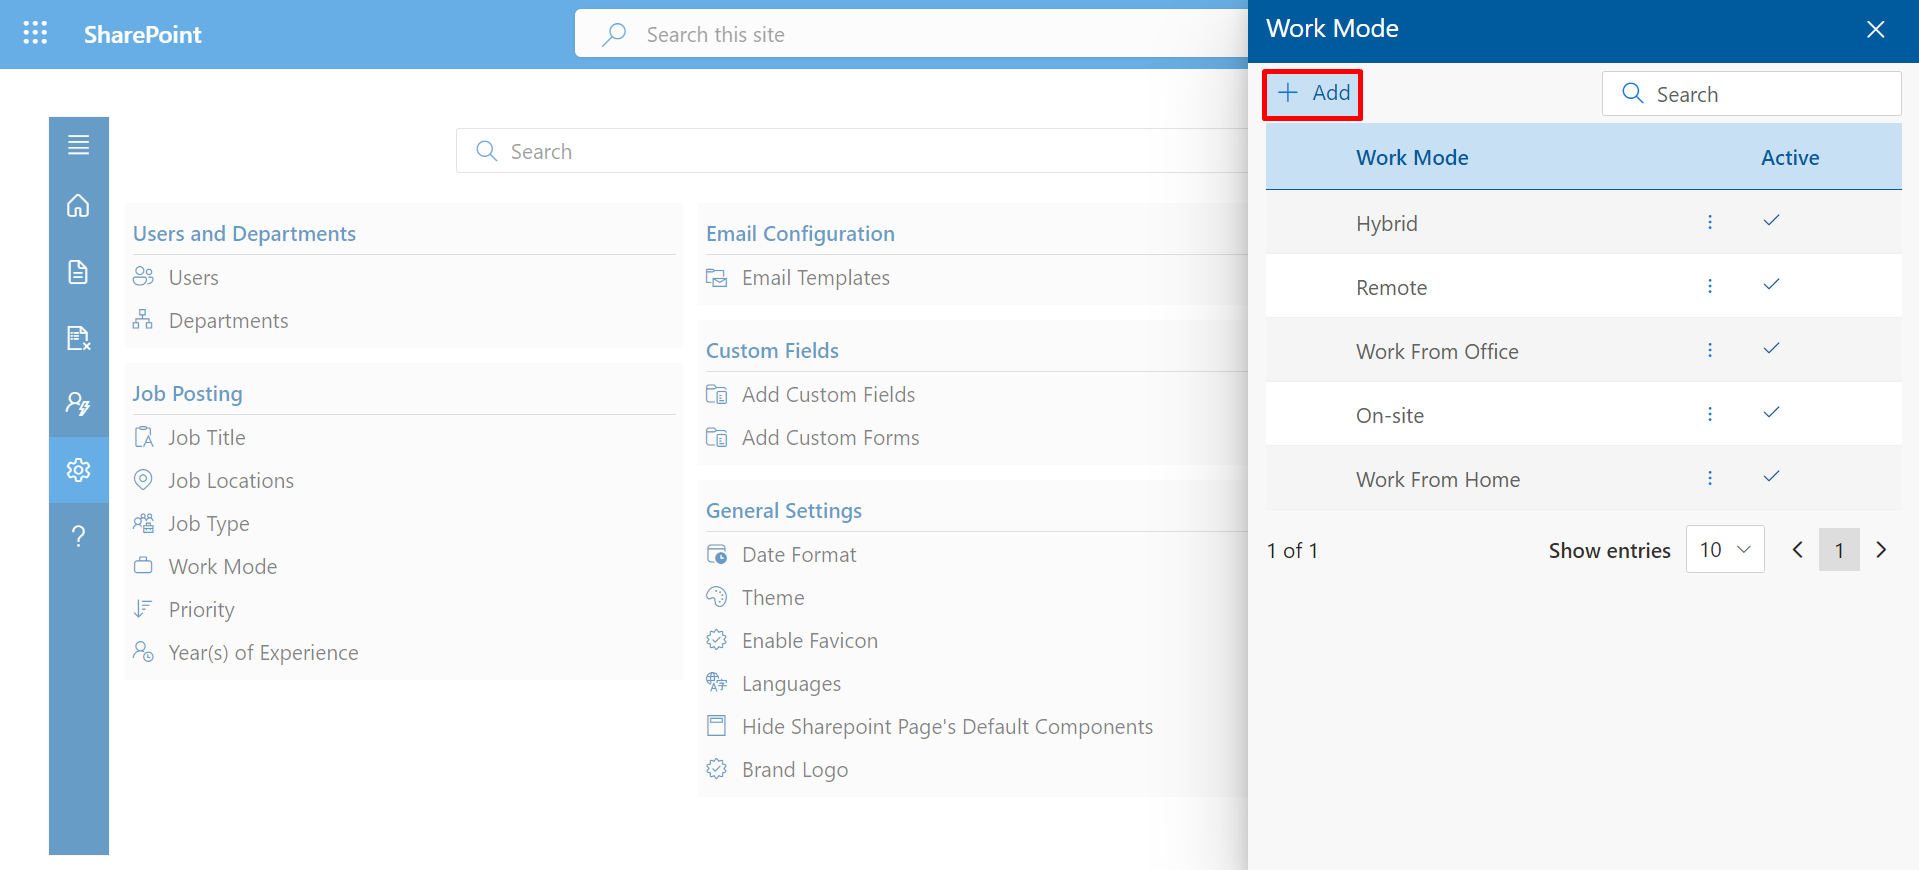
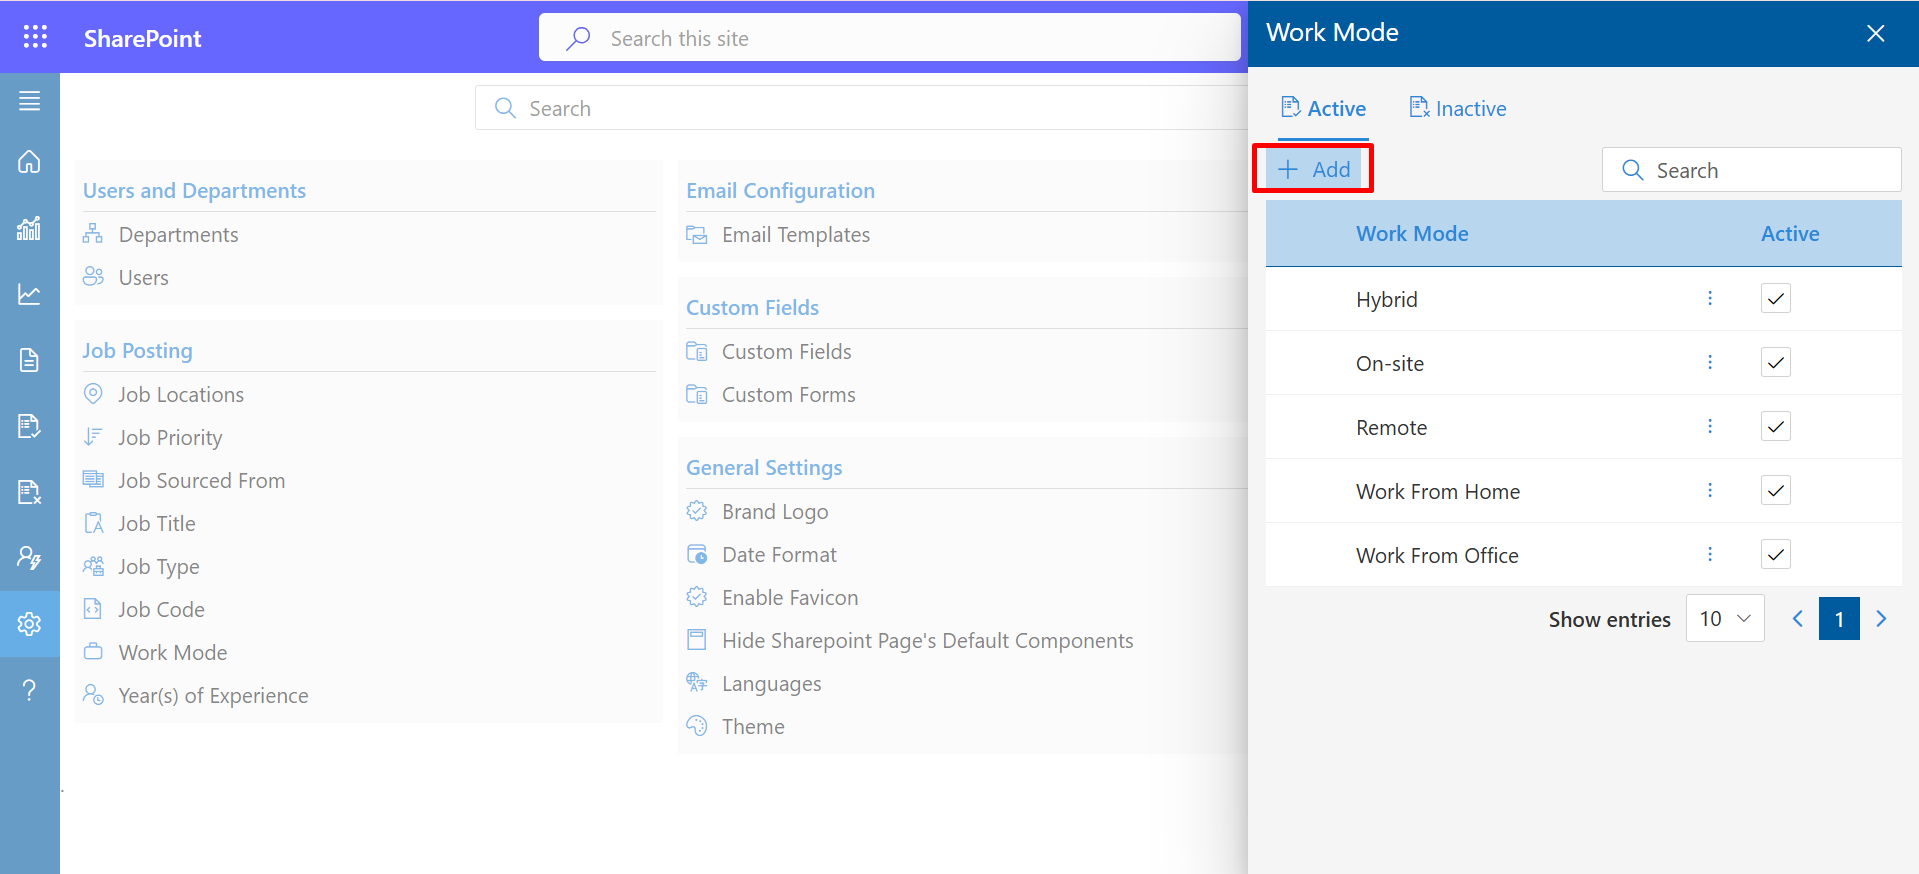
RM365_Docs

diff --git a/RM365/modern/admin/settings/portal-configration/index.html b/RM365/modern/admin/settings/portal-configration/index.html
@@ -29,16 +29,16 @@
     <script src=https://hr365docs.github.io/docs/plugins/jquery/jquery-ui.js></script>
     <script src=https://hr365docs.github.io/docs/plugins/bootstrap/bootstrap.min.js></script>
     <script src=https://hr365docs.github.io/docs/plugins/match-height/jquery.matchHeight-min.js></script>
-               <!-- Google Tag Manager -->
-               <script>(function (w, d, s, l, i) {
-                w[l] = w[l] || []; w[l].push({
-                    'gtm.start':
-                        new Date().getTime(), event: 'gtm.js'
-                }); var f = d.getElementsByTagName(s)[0],
-                    j = d.createElement(s), dl = l != 'dataLayer' ? '&l=' + l : ''; j.async = true; j.src =
-                        'https://www.googletagmanager.com/gtm.js?id=' + i + dl; f.parentNode.insertBefore(j, f);
-            })(window, document, 'script', 'dataLayer', 'GTM-TX9SKDMB');</script>
-        <!-- End Google Tag Manager -->
+    <!-- Google Tag Manager -->
+    <script>(function (w, d, s, l, i) {
+            w[l] = w[l] || []; w[l].push({
+                'gtm.start':
+                    new Date().getTime(), event: 'gtm.js'
+            }); var f = d.getElementsByTagName(s)[0],
+                j = d.createElement(s), dl = l != 'dataLayer' ? '&l=' + l : ''; j.async = true; j.src =
+                    'https://www.googletagmanager.com/gtm.js?id=' + i + dl; f.parentNode.insertBefore(j, f);
+        })(window, document, 'script', 'dataLayer', 'GTM-TX9SKDMB');</script>
+    <!-- End Google Tag Manager -->
     <meta property="og:image" content="https://hr365docs.github.io/docs/images/logo.png">
     <meta name=twitter:image content="https://hr365docs.github.io/docs/images/logo.png">
     <meta name=twitter:card content="summary_large_image">
@@ -57,13 +57,13 @@
 </head>
 
 <body>
-                    <!-- Google Tag Manager (noscript) -->
-                    <noscript>
-                        <iframe src="https://www.googletagmanager.com/ns.html?id=GTM-TX9SKDMB" height="0" width="0"
-                            style="display:none;visibility:hidden">
-                        </iframe>
-                    </noscript>
-                    <!-- End Google Tag Manager (noscript) -->
+    <!-- Google Tag Manager (noscript) -->
+    <noscript>
+        <iframe src="https://www.googletagmanager.com/ns.html?id=GTM-TX9SKDMB" height="0" width="0"
+            style="display:none;visibility:hidden">
+        </iframe>
+    </noscript>
+    <!-- End Google Tag Manager (noscript) -->
     <header class="shadow-bottom sticky-top bg-white">
         <nav class="navbar navbar-expand-lg navbar-light">
             <div class="container px-2 px-md-0">
@@ -111,12 +111,73 @@ active">
                                     <i class="fas fa-link" style="font-size:12px; color:lightgray;"></i></a>
                             </h2>
                             <br>
-                            <p>Job Portal Configuration enables RM365 customers to add a privacy policy link and customize the job portal's buttons, banner, text color, and logo. </p><br>
+                            <p>Job Portal Configuration enables RM365 customers to add a privacy policy link and
+                                customize the job portal's buttons, banner, text color, and logo. </p><br>
 
                             <div><img src="1.png" onclick="openModal('1.png')" alt="RM365" width="100%" height="auto">
                             </div>
                             <br>
-                           
+
+
+
+
+                        </div>
+                        <div class="bg-light p-4 remove-padding">
+                            <h2 id="_dashboards"><a class="header-icon-link highlight" href=#>Internal Job Portal
+                                    Configuration
+                                    <i class="fas fa-link" style="font-size:12px; color:lightgray;"></i></a>
+                            </h2>
+                            <br>
+                            <p>Configure and manage an internal job portal to streamline job postings, approvals, and
+                                employee applications. This includes setting up job templates, defining access
+                                permissions, enabling approval workflows, and tracking job applications for internal
+                                hiring processes.</p><br>
+
+                            <div><img src="internalJob.png" onclick="openModal('internalJob.png')" alt="RM365"
+                                    width="100%" height="auto">
+                            </div>
+                            <br>
+                            <p>The Internal Job Portal Configuration allows administrators to customize and personalize
+                                the job portal by setting the title, footer, description, portal logo, banner image,
+                                color themes, and links to ensure alignment with the company’s branding and
+                                requirements. It also enables features such as managing referral options, resume size
+                                limits, and hiding default components, providing a tailored and user-friendly experience
+                                for employees.</p><br>
+
+                            <div><img src="2.png" onclick="openModal('2.png')" alt="RM365" width="100%" height="auto">
+                            </div>
+                            <div><img src="3.png" onclick="openModal('3.png')" alt="RM365" width="100%" height="auto">
+                            </div>
+                            <br>
+                            <p>Suppose you have a tenant, then you create a page on that tenant where you install the
+                                IJP (Internal Job Portal). After that, a page and a link will be generated, and you can
+                                share that link with anyone to whom you want to provide access to the job posting.</p>
+                            <div><img src="ReadyTemplate.png" onclick="openModal('ReadyTemplate.png')" alt="RM365"
+                                    width="100%" height="auto">
+                            </div>
+                            <br>
+                            <p>Click on this icon.</p>
+                            <div><img src="ClickonIcon.png" onclick="openModal('ClickonIcon.png')" alt="RM365"
+                                    width="100%" height="auto">
+                            </div>
+                            <br>
+                            <p>Then click on the <b>Apply</b> button.</p>
+                            <div><img src="Apply.png" onclick="openModal('Apply.png')" alt="RM365" width="100%"
+                                    height="auto">
+                            </div>
+                            <br>
+                            <p>So, anyone who wants to apply for the job can fill in the required fields according to
+                                the job post and upload their resume.</p>
+                            <div><img src="DataFill.png" onclick="openModal('DataFill.png')" alt="RM365" width="100%"
+                                    height="auto">
+                            </div>
+                            <br>
+                            <p>And at the end, they will click on the submit button to submit their application.</p>
+                            <div><img src="Submit.png" onclick="openModal('Submit.png')" alt="RM365" width="100%"
+                                    height="auto">
+                            </div>
+                            <br>
+
 
 
 
@@ -125,7 +186,8 @@ active">
                         <p class="post-meta border-bottom pb-3 mb-0 mt-3" id="date">
                         <nav class="pagination mt-3">
                             <a class="nav nav-prev" href="../Requisition-Templates/" aria-label="Previous page"><i
-                                    class="ti-arrow-left mr-2"></i> <span class="d-none d-md-block">Requisition Templates </span></a>
+                                    class="ti-arrow-left mr-2"></i> <span class="d-none d-md-block">Requisition
+                                    Templates </span></a>
                             <a class="nav nav-next" href="../../help/" aria-label="Previous page"> <span
                                     class="d-none d-md-block">Help</span><i class="ti-arrow-right ml-2"></i></a>
                         </nav>

diff --git a/RM365/modern/admin/settings/Job-Posting/index.html b/RM365/modern/admin/settings/Job-Posting/index.html
@@ -425,12 +425,39 @@ active">
                                         height="auto">
                                 </div> <br>
                                 <p>To add a user, fill out the form and click the "Save" button to save it.</p><br>
-                                <div><img src="11.png" onclick="openModal('11.png')" alt="RM365" width="100%"
-                                        height="auto">
+                                <div><img src="AddWorkmode.png" onclick="openModal('AddWorkmode.png')" alt="RM365"
+                                        width="100%" height="auto">
                                 </div> <br>
                                 <p>You can see the Work-Mode you have added, which will impact every job title. You can
                                     select a Work-Mode from the dropdown menu.</p> <br>
                                 <div><img src="19.png" onclick="openModal('19.png')" alt="RM365" width="100%"
+                                        height="auto">
+                                </div> <br>
+                                <p>User can select multiple work mode within the application and mark them as inactive.
+                                </p> <br>
+                                <div><img src="SendtoInactive.png" onclick="openModal('SendtoInactive.png')" alt="RM365"
+                                        width="100%" height="auto">
+                                </div> <br>
+                                <p>After the user marks the work mode as inactive, they will be displayed in the
+                                    inactive tab. </p> <br>
+                                <div><img src="inactiveTabWorkmode.png" onclick="openModal('inactiveTabWorkmode.png')"
+                                        alt="RM365" width="100%" height="auto">
+                                </div> <br>
+                                <p>If the user wants to activate an inactive work mode , they can check the checkbox for
+                                    that work mode, and it will become active.</p> <br>
+                                <div><img src="sendbacktoActive.png" onclick="openModal('sendbacktoActive.png')"
+                                        alt="RM365" width="100%" height="auto">
+                                </div> <br>
+                                <p>The same work mode will now appear in the active tab.</p> <br>
+                                <div><img src="activetabBacksend.png" onclick="openModal('activetabBacksend.png')"
+                                        alt="RM365" width="100%" height="auto">
+                                </div> <br>
+                                <p>When a user adds a work mode, a toggle is provided. If the user turns it on, the work
+                                    mode
+                                    mode will appear in the active tab. If the toggle is off, the work mode will move to
+                                    the inactive tab. By default, the toggle remains on.</p> <br>
+                                <div><img src="WorkfromOfferActiveToogle.png"
+                                        onclick="openModal('WorkfromOfferActiveToogle.png')" alt="RM365" width="100%"
                                         height="auto">
                                 </div> <br>
 
@@ -440,7 +467,7 @@ active">
 
 
                         </div>
-                        <div class="bg-light p-4 remove-padding common-scroll" id="priority">
+                        <!-- <div class="bg-light p-4 remove-padding common-scroll" id="priority">
                             <ul class=page-list>
                                 <h2 id="_dashboards"><a class="header-icon-link highlight" href=#>Priority
                                         <i class="fas fa-link" style="font-size:12px; color:lightgray;"></i></a>
@@ -464,15 +491,15 @@ active">
 
 
 
-                        </div>
+                        </div> -->
                         <div class="bg-light p-4 remove-padding common-scroll" id="yearofexp">
                             <ul class=page-list>
                                 <h2 id="_dashboards"><a class="header-icon-link highlight" href=#>Year(s) of Experience
                                         <i class="fas fa-link" style="font-size:12px; color:lightgray;"></i></a>
                                 </h2>
                                 <p>Click the +Add Button to add Year(s) of Experience.</p><br>
-                                <div><img src="14.png" onclick="openModal('14.png')" alt="RM365" width="100%"
-                                        height="auto">
+                                <div><img src="AddYearofExp.png" onclick="openModal('AddYearofExp.png')" alt="RM365"
+                                        width="100%" height="auto">
                                 </div> <br>
                                 <p>To add a user, fill out the form and click the "Save" button to save it.</p><br>
                                 <div><img src="15.png" onclick="openModal('15.png')" alt="RM365" width="100%"
@@ -483,9 +510,32 @@ active">
                                 <div><img src="21.png" onclick="openModal('21.png')" alt="RM365" width="100%"
                                         height="auto">
                                 </div> <br>
-
-
-                            </ul>
+                                <p>If the user selects multiple year of experience, an action button labeled 'Set Bulk
+                                    Inactive' becomes available.</p> <br>
+                                <div><img src="YOEActive.png" onclick="openModal('YOEActive.png')" alt="RM365"
+                                        width="100%" height="auto">
+                                </div> <br>
+                                <p>In the Inactive section, the year of experience that the user selected and marked as
+                                    inactive will be displayed.</p> <br>
+                                <div><img src="YOEInactive.png" onclick="openModal('YOEInactive.png')" alt="RM365"
+                                        width="100%" height="auto">
+                                </div> <br>
+                                <p>If a year of experience is marked inactive by mistake, the user can check the
+                                    checkbox and mark it as active again.</p> <br>
+                                <div><img src="CheckBoxYOF.png" onclick="openModal('CheckBoxYOF.png')" alt="RM365"
+                                        width="100%" height="auto">
+                                </div> <br>
+                                <p>The year of experience that the user checked will be moved back to the Active section
+                                    and displayed there.</p> <br>
+                                <div><img src="BacktoActiveYOE.png" onclick="openModal('BacktoActiveYOE.png')"
+                                        alt="RM365" width="100%" height="auto">
+                                </div> <br>
+                                <p>When a user or admin adds a year of experience, they see an Active/Inactive toggle. By
+                                    default, the toggle is set to 'On.' If it is turned 'Off' while adding the year of experience, that year of experience will be added to the Inactive section."</p> <br>
+                                <div><img src="YOEToogle.png" onclick="openModal('YOEToogle.png')" alt="RM365"
+                                        width="100%" height="auto">
+                                </div> <br>
+ </ul>
 
 
 

diff --git a/RM365/modern/admin/settings/hiring-process/index.html b/RM365/modern/admin/settings/hiring-process/index.html
@@ -128,6 +128,37 @@ active">
                             <br>
 
                         </div>
+                        <div class="bg-light p-4 remove-padding common-scroll" id="Complexity-Level">
+                            <ul class=page-list>
+                                <h2 id="_dashboards"><a class="header-icon-link highlight" href=#> Complexity Level
+                                        <i class="fas fa-link" style="font-size:12px; color:lightgray;"></i></a>
+                                </h2>
+                                <p>In this section, you can add the complexity level.</p><br>
+                                <div><img src="AddBtn.png" onclick="openModal('AddBtn.png')" alt="RM365" width="100%" height="auto">
+                                </div>   <br>
+                                <p>To add a user, fill out the form and click the "Save" button to save it.</p><br>
+                                <div><img src="HardAdd.png" onclick="openModal('HardAdd.png')" alt="RM365" width="100%" height="auto">
+                                </div>   <br>
+                                <p>If the user selects multiple complexity level, an action button labeled 'Set Bulk Inactive' becomes available.</p><br>
+                                <div><img src="MediumSendtoinactive.png" onclick="openModal('MediumSendtoinactive.png')" alt="RM365" width="100%" height="auto">
+                                </div>   <br>
+                                <p>In the Inactive section, the complexity level that the user selected and marked as inactive will be displayed.</p><br>
+                                <div><img src="InactiveSection.png" onclick="openModal('InactiveSection.png')" alt="RM365" width="100%" height="auto">
+                                </div>   <br>
+                                <p>If a complexity level is marked inactive by mistake, the user can check the checkbox and mark it as active again.</p><br>
+                                <div><img src="CheckboxBacktoActive.png" onclick="openModal('CheckboxBacktoActive.png')" alt="RM365" width="100%" height="auto">
+                                </div>   <br>
+                                <p>The complexity level that the user checked will be moved back to the Active section and displayed there.</p><br>
+                                <div><img src="ActiveSection.png" onclick="openModal('ActiveSection.png')" alt="RM365" width="100%" height="auto">
+                                </div>   <br>
+                                <p>When a user or admin adds a complexity level, they see an Active/Inactive toggle. By default, the toggle is set to 'On.' If it is turned 'Off' while adding the complexity level, that complexity level will be added to the Inactive section."</p><br>
+                                <div><img src="ToogleActive.png" onclick="openModal('ToogleActive.png')" alt="RM365" width="100%" height="auto">
+                                </div>   <br>
+                               
+                               
+
+                            </ul>
+                        </div>
                         <div class="bg-light p-4 remove-padding common-scroll" id="Score Card">
                             <ul class=page-list>
                                 <h2 id="_dashboards"><a class="header-icon-link highlight" href=#> Score Card
@@ -149,19 +180,7 @@ active">
 
 
                         </div>
-                        <div class="bg-light p-4 remove-padding common-scroll" id="Complexity-Level">
-                            <ul class=page-list>
-                                <h2 id="_dashboards"><a class="header-icon-link highlight" href=#> Complexity Level
-                                        <i class="fas fa-link" style="font-size:12px; color:lightgray;"></i></a>
-                                </h2>
-                                <p>In this section, you can add the complexity level.</p><br>
-                                <div><img src="5.png" onclick="openModal('5.png')" alt="RM365" width="100%" height="auto">
-                                </div>   <br>
-                               
-                               
-
-                            </ul>
-                        </div>
+               
 
 
 

diff --git a/RM365/modern/admin/settings/Requisition-Templates/index.html b/RM365/modern/admin/settings/Requisition-Templates/index.html
@@ -107,7 +107,7 @@ active">
                 <div class=col-lg-9>
                     <div class="p-lg-4 p-4 bg-white remove-padding" id=content>
                         <div class="bg-light p-4 remove-padding">
-                            <h2 id="_dashboards"><a class="header-icon-link highlight" href=#>Requisition Templates
+                            <h2 id="_dashboards"><a class="header-icon-link highlight" href=#>Job Description Template
                                     <i class="fas fa-link" style="font-size:12px; color:lightgray;"></i></a>
                             </h2>
                             <br>
@@ -135,6 +135,19 @@ active">
                                    
                                     <p>Once the template name, description, Template access type and job description have been entered, click "Save" to add the template.</p> <br>
                                     <div><img src="3.png" onclick="openModal('3.png')" alt="RM365" width="100%" height="auto">
+                                    </div>   <br>
+                                   
+                                    <p>To mark a job description template as inactive, the user can check the checkbox next to the job description template they want to deactivate."</p> <br>
+                                    <div><img src="inactiveToogle.png" onclick="openModal('inactiveToogle.png')" alt="RM365" width="100%" height="auto">
+                                    </div>   <br>
+                                    <p>In the Inactive section, only the job description template that the user has marked as inactive will be displayed.</p> <br>
+                                    <div><img src="inactiveSection.png" onclick="openModal('inactiveSection.png')" alt="RM365" width="100%" height="auto">
+                                    </div>   <br>
+                                    <p>If a job description template is marked inactive by mistake, the user can check the checkbox and mark it as active again.</p> <br>
+                                    <div><img src="BacktoActive.png" onclick="openModal('BacktoActive.png')" alt="RM365" width="100%" height="auto">
+                                    </div>   <br>
+                                    <p>Then, the job description template that the user marked as active will be displayed in the Active section.</p> <br>
+                                    <div><img src="nowActive.png" onclick="openModal('nowActive.png')" alt="RM365" width="100%" height="auto">
                                     </div>   <br>
     
                                 </ul>
